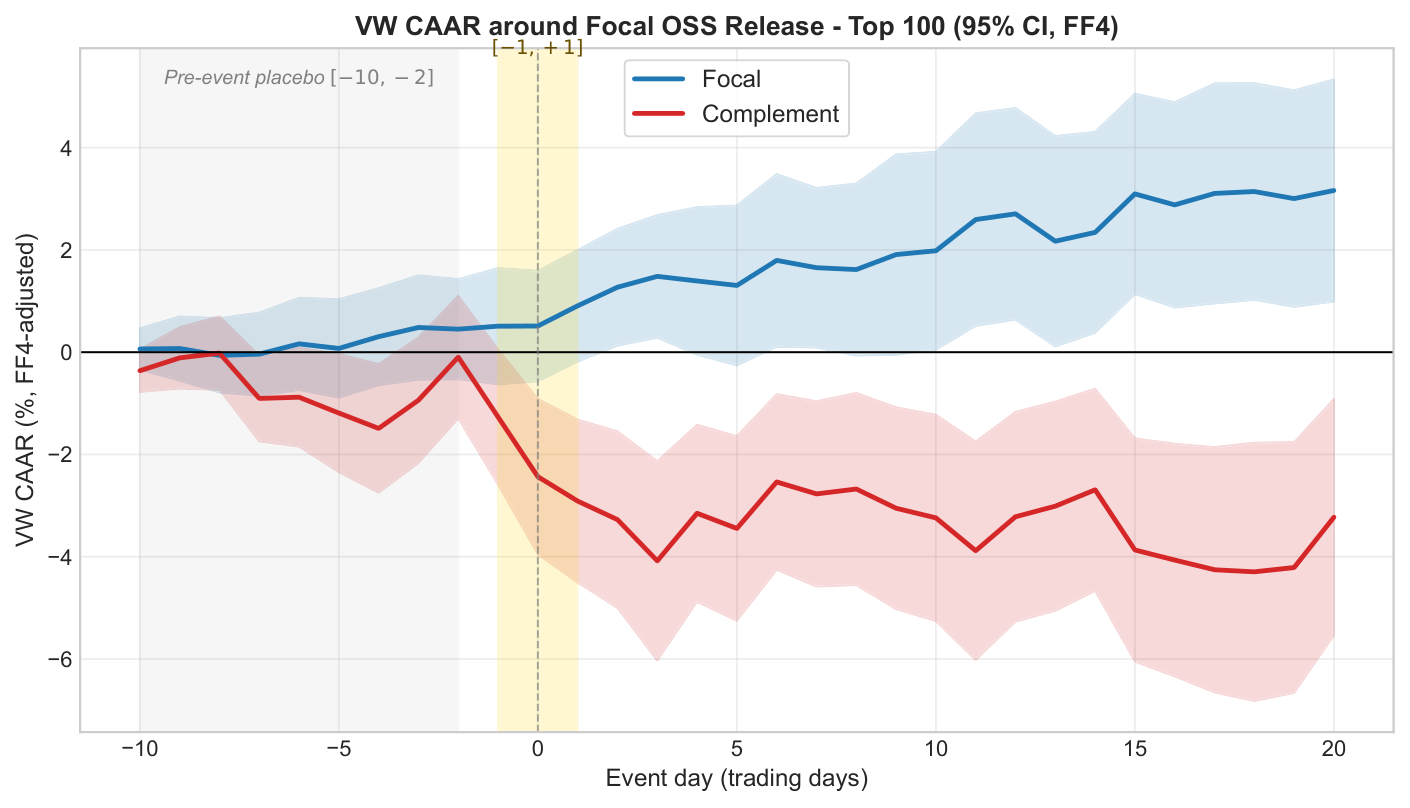
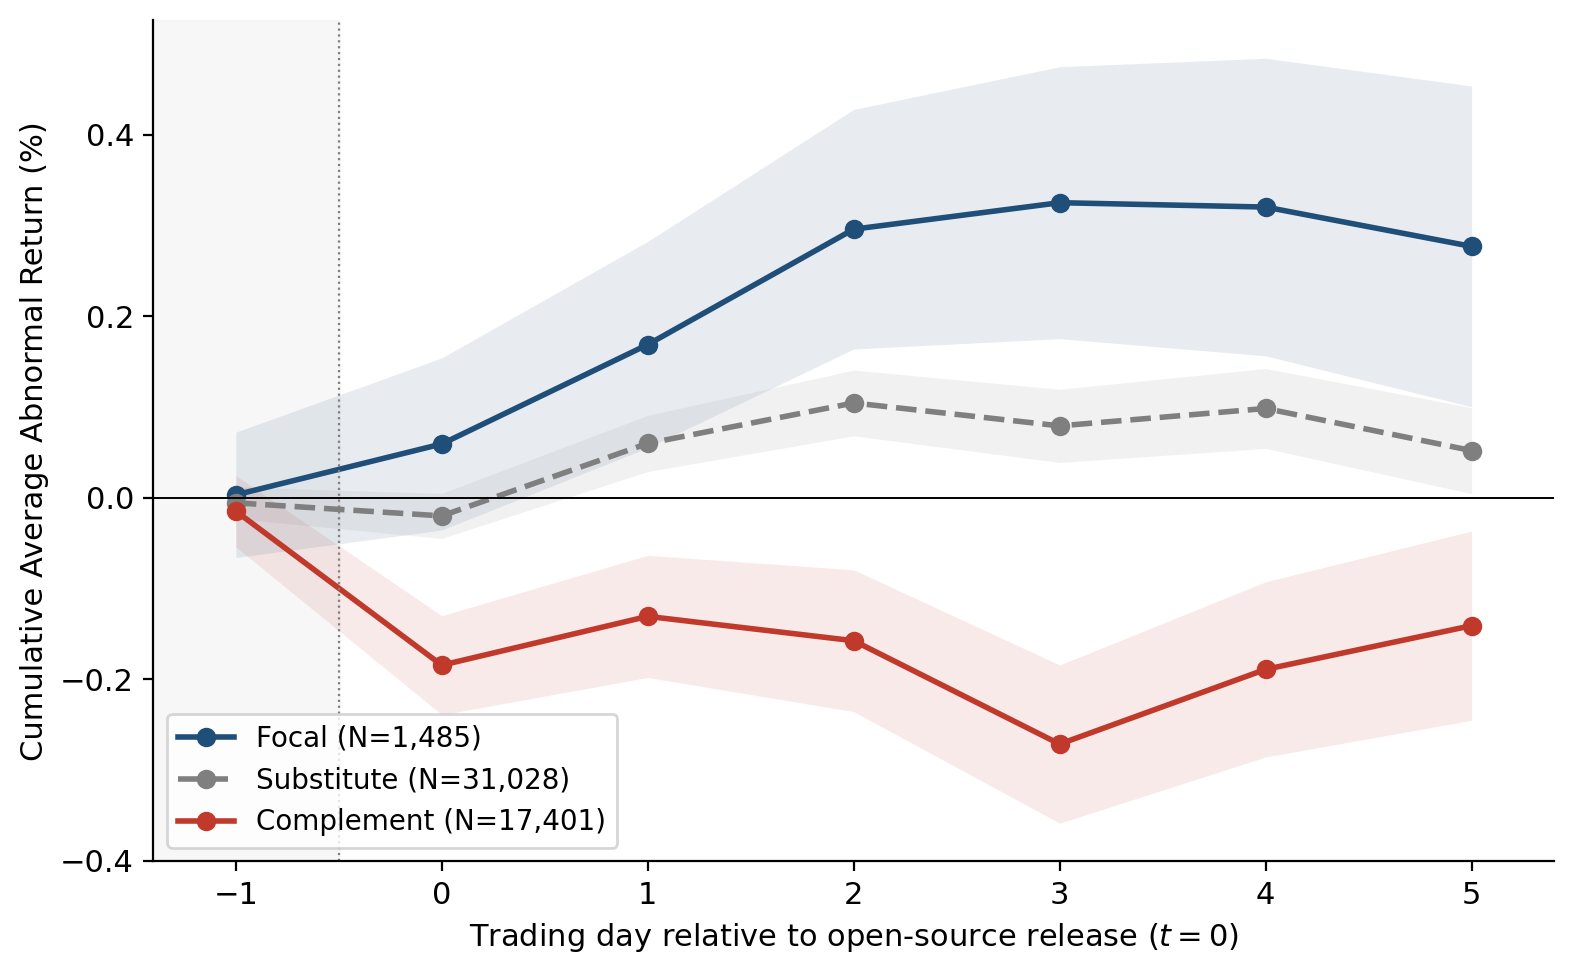
Update CC and DPI abstracts to June 2026 SSRN versions; swap OSS figure to F09 (CAR by Peer Type)
- CC abstract: new commoditize-complement narrative (-8.2% complement sales, -13.1% R&D, +42% focal core sales, $313B vs -$153B wealth transfer)
- DPI abstract: refreshed phrasing aligned with June 2026 SSRN upload
- OSS figure: fig-oss.png now Market Reaction to Open-Source Releases by Peer Type (Focal vs Substitute vs Complement, FF4 CAR)
- Footer: Last updated May -> June 2026

diff --git a/index.html b/index.html
@@ -125,18 +125,17 @@
     <details class="abs">
       <summary>Abstract</summary>
       <div class="body">
-        <p>Why do firms release open-source software for free? I show that dominant technology firms strategically
-        release free open-source software (OSS) to commoditize complementary markets and devalue competitors'
-        proprietary assets. Exploiting the staggered release of major GitHub repositories, I find that equity markets
-        price each release as a real-time wealth transfer worth hundreds of billions of dollars: the releasing platform
-        gains 0.5% while complement rivals lose 2.8%, and direct substitutes show no reaction at all, confirming a
-        targeted rather than diffuse predation. Exposed rivals also lose 5.2% of sales and cut R&amp;D by 14.8%, after
-        which their patent portfolios age and their product offerings stagnate, while a growing share of their
-        engineering labor is reallocated to the focal firm's OSS. Free OSS emerges as a non-priced competitive weapon
-        that eludes traditional antitrust scrutiny.</p>
+        <p>Why do firms release open-source software (OSS) for free? I show that platforms strategically release OSS
+        to commoditize complementary product markets, eroding rivals' proprietary rents while expanding demand for
+        their own products. Using the staggered release of GitHub repositories, I find that complement rivals lose
+        8.2% of sales, cut R&amp;D by 13.1%, and reallocate engineering talent to the platform, whereas direct
+        substitutes show no measurable reaction. The platforms benefit in turn: their core-segment sales rise about
+        42% more than non-core segments, lifting sales and profitability. Equity markets price each release as a
+        directed wealth transfer, with platforms gaining $313 billion as complement rivals lose $153 billion. Free
+        OSS emerges as a non-priced competitive weapon beyond the reach of traditional antitrust.</p>
         <figure class="fig">
-          <img src="fig-oss.png" alt="Event-window dynamics of value-weighted CAAR: focal vs. complement peers" onerror="this.closest('figure').style.display='none'">
-          <figcaption>Event-window dynamics of value-weighted cumulative average abnormal returns: focal firms vs. complement peers.</figcaption>
+          <img src="fig-oss.png" alt="Market reaction to open-source releases by peer type: value-weighted CAR for focal firms, substitute peers, and complement peers" onerror="this.closest('figure').style.display='none'">
+          <figcaption>Market reaction to open-source releases by peer type: value-weighted cumulative average abnormal return for focal firms, substitute peers, and complement peers around release announcements (FF4 model, full sample of ~1,700 releases).</figcaption>
         </figure>
       </div>
     </details>
@@ -152,12 +151,15 @@
     <details class="abs">
       <summary>Abstract</summary>
       <div class="body">
-        <p>How do digital platforms exploit their dual role as marketplace operator and competitor to third-party
-        sellers? I introduce the Data Power Index (DPI), a measure of Amazon's accumulated informational advantage.
-        Unlike the HHI, the DPI shows that tighter data environments compress seller margins and push exposed public
-        firms to cut costs and accelerate innovation, and it robustly predicts the timing and targets of Amazon's
-        private-label entry. After entry, incumbent sellers' profitability falls sharply and exposed firms face
-        heightened risk. Aggregate consumer surplus expands but is reallocated away from incumbent sellers.</p>
+        <p>How do digital platforms exploit their dual role as marketplace operators to strategically compete with
+        third-party sellers? To answer this, I introduce the Data Power Index (DPI), a novel measure quantifying
+        Amazon's accumulated informational advantage. Unlike traditional market power measures such as the HHI, the
+        DPI reveals that tighter data environments compress seller margins and force exposed public firms to cut
+        costs and accelerate innovation. This informational advantage robustly predicts the timing and targets of
+        Amazon's private-label entry. After Amazon's entry, incumbent sellers suffer sharp declines in profitability,
+        while exposed firms face heightened risk. Ultimately, this data-driven encroachment creates a welfare
+        trade-off: the category's consumer surplus expands in aggregate, but it is reallocated away from the
+        incumbent sellers who generated it.</p>
         <figure class="fig">
           <img src="fig-dpi.png" alt="Data Power Index around Amazon brand entry, treated vs. control categories" onerror="this.closest('figure').style.display='none'">
           <figcaption>Data Power Index around Amazon brand entry: treated vs. control categories (&plusmn;12-month window, event time t = 0).</figcaption>
@@ -278,7 +280,7 @@
   </p>
 
   <footer>
-    Last updated May 2026. &nbsp;Built as a single static page hosted on GitHub Pages.
+    Last updated June 2026. &nbsp;Built as a single static page hosted on GitHub Pages.
   </footer>
 
 </div>
